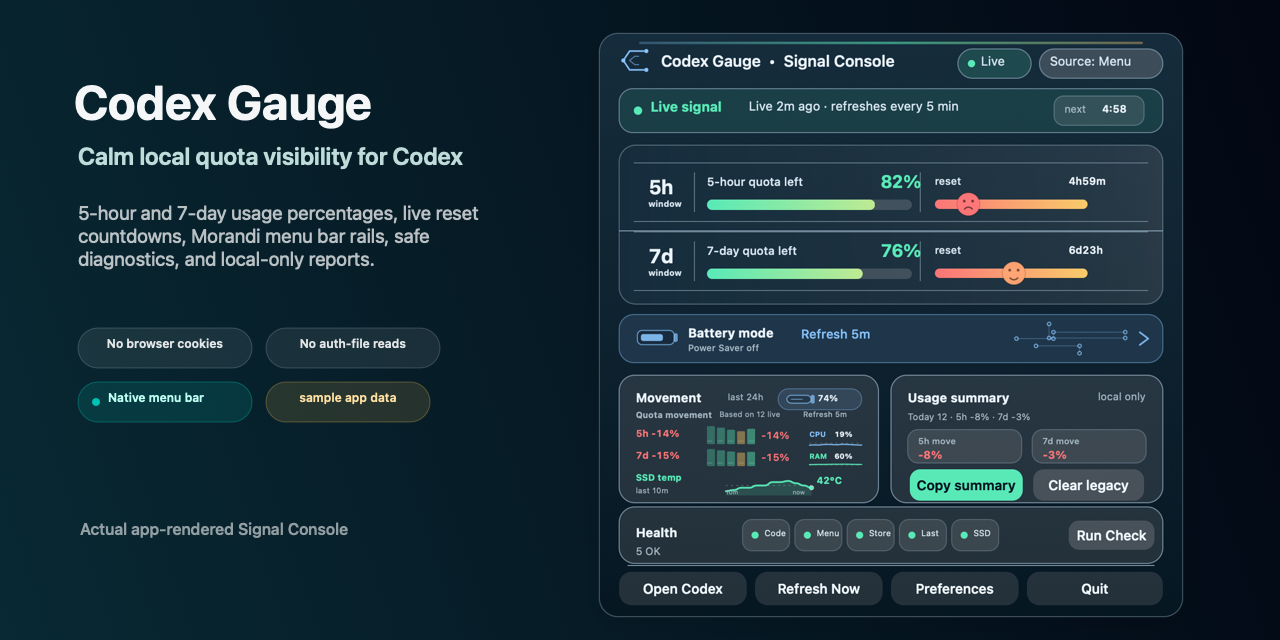
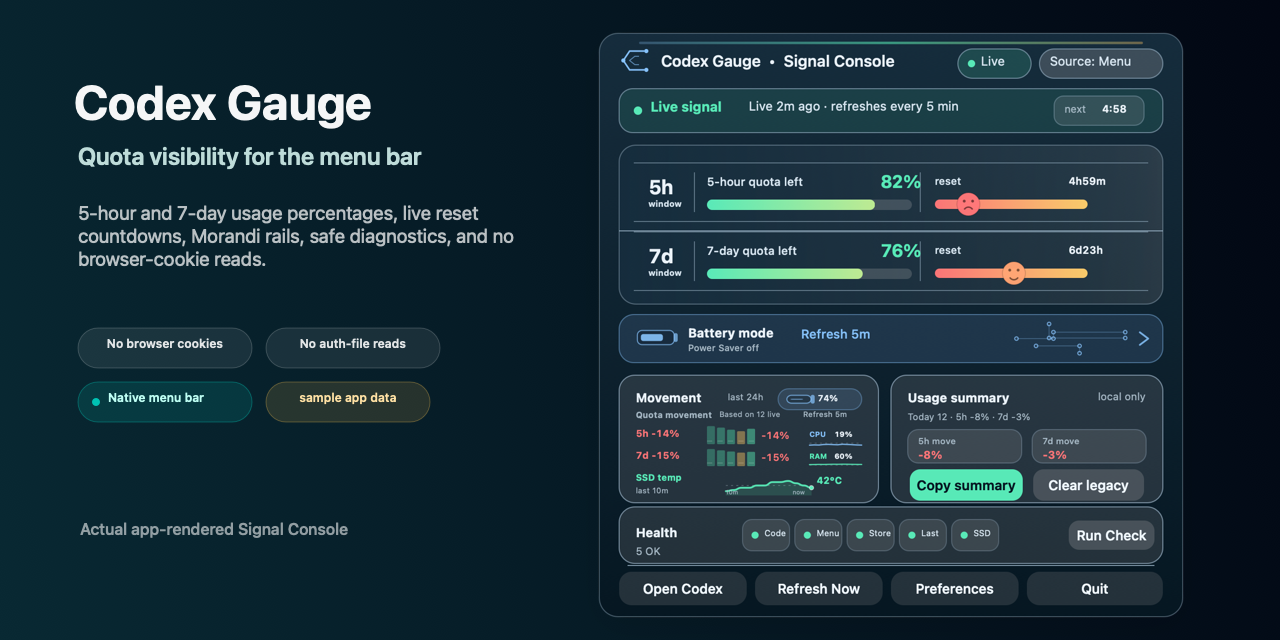
polish github presentation hero

Changed region(s): [[0.0625, 0.3438, 0.4062, 0.4375], [0.0625, 0.2188, 0.375, 0.2812]]

diff --git a/script/generate_public_assets.swift b/script/generate_public_assets.swift
@@ -5,6 +5,7 @@ import Foundation
 let canvasSize = NSSize(width: 1280, height: 640)
 let blueCeramicFixturePath = "docs/design/app-rendered-signal-console/blue-ceramic-live.png"
 let darkFixturePath = "docs/design/app-rendered-signal-console/signal-dark-live.png"
+let heroOutputPath = "docs/assets/codex-gauge-github-hero.png"
 let menuBarPath = "docs/assets/codex-gauge-menubar-live.png"
 let consoleOutputPath = "docs/assets/codex-gauge-signal-console.png"
 let socialOutputPath = "docs/assets/codex-gauge-social-preview.png"
@@ -281,6 +282,49 @@ let blueCeramicPanel = loadImage(blueCeramicFixturePath)
 let darkPanel = loadImage(darkFixturePath)
 let menuBar = loadImage(menuBarPath)
 
+try writePNG(heroOutputPath) {
+    fillCanvas(NSColor(calibratedRed: 0.90, green: 0.94, blue: 0.92, alpha: 1.0))
+    NSGradient(colors: [
+        NSColor(calibratedRed: 0.95, green: 0.97, blue: 0.94, alpha: 1.0),
+        NSColor(calibratedRed: 0.76, green: 0.84, blue: 0.84, alpha: 1.0),
+    ])?.draw(in: NSBezierPath(rect: NSRect(origin: .zero, size: canvasSize)), angle: 10)
+
+    drawRoundedRect(NSRect(x: 0, y: 0, width: 1280, height: 74), radius: 0, fill: NSColor.white.withAlphaComponent(0.46))
+    drawText("Codex Gauge", in: NSRect(x: 80, y: 108, width: 480, height: 58), size: 48, weight: .bold, color: NSColor(calibratedRed: 0.10, green: 0.15, blue: 0.15, alpha: 1.0))
+    drawText("Codex quota where you actually look: the macOS menu bar.", in: NSRect(x: 82, y: 176, width: 500, height: 72), size: 25, weight: .semibold, color: NSColor(calibratedRed: 0.22, green: 0.30, blue: 0.30, alpha: 0.96))
+    drawText("Rendered sample values. The installed app shows your live 5-hour and 7-day usage, with reset countdowns that keep moving.", in: NSRect(x: 84, y: 258, width: 500, height: 86), size: 18, weight: .regular, color: NSColor(calibratedRed: 0.33, green: 0.39, blue: 0.38, alpha: 0.94))
+
+    drawPill("No cookies", rect: NSRect(x: 84, y: 382, width: 122, height: 38), fill: NSColor.white.withAlphaComponent(0.42), stroke: NSColor(calibratedRed: 0.34, green: 0.43, blue: 0.41, alpha: 0.22), text: NSColor(calibratedRed: 0.16, green: 0.22, blue: 0.21, alpha: 1.0))
+    drawPill("No auth-file reads", rect: NSRect(x: 222, y: 382, width: 172, height: 38), fill: NSColor.white.withAlphaComponent(0.42), stroke: NSColor(calibratedRed: 0.34, green: 0.43, blue: 0.41, alpha: 0.22), text: NSColor(calibratedRed: 0.16, green: 0.22, blue: 0.21, alpha: 1.0))
+    drawPill("local diagnostics", rect: NSRect(x: 410, y: 382, width: 166, height: 38), fill: NSColor(calibratedRed: 0.42, green: 0.54, blue: 0.49, alpha: 0.14), stroke: NSColor(calibratedRed: 0.42, green: 0.54, blue: 0.49, alpha: 0.32), text: NSColor(calibratedRed: 0.14, green: 0.27, blue: 0.22, alpha: 1.0), dot: NSColor(calibratedRed: 0.42, green: 0.54, blue: 0.49, alpha: 1.0))
+
+    let shadow = NSShadow()
+    shadow.shadowColor = NSColor.black.withAlphaComponent(0.18)
+    shadow.shadowBlurRadius = 28
+    shadow.shadowOffset = NSSize(width: 0, height: -12)
+    NSGraphicsContext.saveGraphicsState()
+    shadow.set()
+    drawRoundedRect(NSRect(x: 642, y: 116, width: 548, height: 340), radius: 30, fill: NSColor.black.withAlphaComponent(0.12))
+    NSGraphicsContext.restoreGraphicsState()
+
+    drawRoundedRect(NSRect(x: 642, y: 116, width: 548, height: 340), radius: 30, fill: NSColor.white.withAlphaComponent(0.52), stroke: NSColor(calibratedRed: 0.26, green: 0.36, blue: 0.36, alpha: 0.20))
+    drawText("menu bar focus", in: NSRect(x: 686, y: 154, width: 200, height: 22), size: 14, weight: .semibold, color: NSColor(calibratedRed: 0.35, green: 0.43, blue: 0.40, alpha: 0.92))
+    drawImage(menuBar, in: NSRect(x: 686, y: 190, width: 452, height: 55))
+    drawRoundedRect(NSRect(x: 686, y: 294, width: 194, height: 96), radius: 18, fill: NSColor.white.withAlphaComponent(0.46), stroke: NSColor(calibratedRed: 0.26, green: 0.36, blue: 0.36, alpha: 0.15))
+    drawText("5h", in: NSRect(x: 710, y: 318, width: 42, height: 24), size: 22, weight: .bold, color: NSColor(calibratedRed: 0.13, green: 0.18, blue: 0.18, alpha: 1.0), mono: true)
+    drawText("usage", in: NSRect(x: 710, y: 348, width: 78, height: 18), size: 12, weight: .medium, color: NSColor(calibratedRed: 0.36, green: 0.44, blue: 0.42, alpha: 0.86))
+    drawText("90%", in: NSRect(x: 788, y: 318, width: 72, height: 28), size: 24, weight: .bold, color: NSColor(calibratedRed: 0.23, green: 0.32, blue: 0.28, alpha: 1.0), mono: true)
+    drawText("4h59m", in: NSRect(x: 788, y: 350, width: 72, height: 18), size: 12, weight: .semibold, color: NSColor(calibratedRed: 0.45, green: 0.41, blue: 0.35, alpha: 0.92), mono: true)
+
+    drawRoundedRect(NSRect(x: 910, y: 294, width: 194, height: 96), radius: 18, fill: NSColor.white.withAlphaComponent(0.46), stroke: NSColor(calibratedRed: 0.26, green: 0.36, blue: 0.36, alpha: 0.15))
+    drawText("7d", in: NSRect(x: 934, y: 318, width: 42, height: 24), size: 22, weight: .bold, color: NSColor(calibratedRed: 0.13, green: 0.18, blue: 0.18, alpha: 1.0), mono: true)
+    drawText("quota", in: NSRect(x: 934, y: 348, width: 78, height: 18), size: 12, weight: .medium, color: NSColor(calibratedRed: 0.36, green: 0.44, blue: 0.42, alpha: 0.86))
+    drawText("80%", in: NSRect(x: 1012, y: 318, width: 72, height: 28), size: 24, weight: .bold, color: NSColor(calibratedRed: 0.24, green: 0.34, blue: 0.38, alpha: 1.0), mono: true)
+    drawText("6d23h", in: NSRect(x: 1012, y: 350, width: 72, height: 18), size: 12, weight: .semibold, color: NSColor(calibratedRed: 0.45, green: 0.41, blue: 0.35, alpha: 0.92), mono: true)
+
+    drawText("The popover keeps CPU, RAM, battery, SSD, and diagnostics out of the menu bar until you ask for detail.", in: NSRect(x: 686, y: 412, width: 420, height: 48), size: 16, weight: .regular, color: NSColor(calibratedRed: 0.35, green: 0.42, blue: 0.41, alpha: 0.92))
+}
+
 try writePNG(consoleOutputPath) {
     fillCanvas(NSColor(calibratedRed: 0.91, green: 0.95, blue: 0.98, alpha: 1.0))
     NSGradient(colors: [
@@ -318,8 +362,8 @@ try writePNG(socialOutputPath) {
     ])?.draw(in: NSBezierPath(rect: NSRect(origin: .zero, size: canvasSize)), angle: 18)
 
     drawText("Codex Gauge", in: NSRect(x: 74, y: 74, width: 430, height: 58), size: 48, weight: .bold, color: NSColor.white.withAlphaComponent(0.96))
-    drawText("Calm local quota visibility for Codex", in: NSRect(x: 78, y: 142, width: 460, height: 36), size: 24, weight: .semibold, color: NSColor(calibratedRed: 0.74, green: 0.88, blue: 0.86, alpha: 0.95))
-    drawText("5-hour and 7-day usage percentages, live reset countdowns, Morandi menu bar rails, safe diagnostics, and local-only reports.", in: NSRect(x: 78, y: 202, width: 450, height: 116), size: 19, weight: .regular, color: NSColor.white.withAlphaComponent(0.72))
+    drawText("Quota visibility for the menu bar", in: NSRect(x: 78, y: 142, width: 460, height: 36), size: 24, weight: .semibold, color: NSColor(calibratedRed: 0.74, green: 0.88, blue: 0.86, alpha: 0.95))
+    drawText("5-hour and 7-day usage percentages, live reset countdowns, Morandi rails, safe diagnostics, and no browser-cookie reads.", in: NSRect(x: 78, y: 202, width: 450, height: 116), size: 19, weight: .regular, color: NSColor.white.withAlphaComponent(0.72))
 
     drawPill("No browser cookies", rect: NSRect(x: 78, y: 328, width: 174, height: 40), fill: NSColor.white.withAlphaComponent(0.08), stroke: NSColor.white.withAlphaComponent(0.17), text: NSColor.white.withAlphaComponent(0.88))
     drawPill("No auth-file reads", rect: NSRect(x: 266, y: 328, width: 174, height: 40), fill: NSColor.white.withAlphaComponent(0.08), stroke: NSColor.white.withAlphaComponent(0.17), text: NSColor.white.withAlphaComponent(0.88))

diff --git a/tests/test_public_release_hygiene.py b/tests/test_public_release_hygiene.py
@@ -149,13 +149,16 @@ class PublicReleaseHygieneTests(unittest.TestCase):
         self.assertNotIn("browser-cookie", script)
 
     def test_public_visual_assets_exist_and_are_bounded(self):
+        hero = pathlib.Path("docs/assets/codex-gauge-github-hero.png")
         live = pathlib.Path("docs/assets/codex-gauge-menubar-live.png")
         console = pathlib.Path("docs/assets/codex-gauge-signal-console.png")
         social = pathlib.Path("docs/assets/codex-gauge-social-preview.png")
 
+        self.assertTrue(hero.exists())
         self.assertTrue(live.exists())
         self.assertTrue(console.exists())
         self.assertTrue(social.exists())
+        self.assertLess(hero.stat().st_size, 3_000_000)
         self.assertLess(live.stat().st_size, 2_000_000)
         self.assertLess(console.stat().st_size, 2_000_000)
         self.assertLess(social.stat().st_size, 3_000_000)
@@ -168,6 +171,15 @@ class PublicReleaseHygieneTests(unittest.TestCase):
         )
         self.assertIn("pixelWidth: 1280", result.stdout)
         self.assertIn("pixelHeight: 640", result.stdout)
+
+        hero_result = subprocess.run(
+            ["sips", "-g", "pixelWidth", "-g", "pixelHeight", str(hero)],
+            check=True,
+            text=True,
+            stdout=subprocess.PIPE,
+        )
+        self.assertIn("pixelWidth: 1280", hero_result.stdout)
+        self.assertIn("pixelHeight: 640", hero_result.stdout)
 
         console_result = subprocess.run(
             ["sips", "-g", "pixelWidth", "-g", "pixelHeight", str(console)],
@@ -190,11 +202,14 @@ class PublicReleaseHygieneTests(unittest.TestCase):
     def test_public_asset_generator_draws_menu_bar_strip(self):
         script = pathlib.Path("script/generate_public_assets.swift").read_text()
 
+        self.assertIn("heroOutputPath", script)
+        self.assertIn("docs/assets/codex-gauge-github-hero.png", script)
         self.assertIn("writeMenuBarPNG(menuBarPath)", script)
         self.assertIn("drawMenuBarMorandiDivider", script)
         self.assertIn("drawMenuBarUsagePercentBar(value:", script)
         self.assertIn("drawMenuBarRefreshCountdown", script)
         self.assertIn("drawMenuBarCountdownPill", script)
+        self.assertIn("Codex quota where you actually look", script)
         self.assertIn("4h59m", script)
         self.assertIn("6d23h", script)
         self.assertIn("Static public screenshot with sample quota values", script)
@@ -285,6 +300,7 @@ class PublicReleaseHygieneTests(unittest.TestCase):
         script_text = script.read_text()
         self.assertIn("docs/design/app-rendered-signal-console/blue-ceramic-live.png", script_text)
         self.assertIn("docs/design/app-rendered-signal-console/signal-dark-live.png", script_text)
+        self.assertIn("docs/assets/codex-gauge-github-hero.png", script_text)
         self.assertIn("docs/assets/codex-gauge-signal-console.png", script_text)
         self.assertIn("docs/assets/codex-gauge-social-preview.png", script_text)
         self.assertIn("actual app-rendered Signal Console", script_text)

diff --git a/tests/test_public_readme_package.py b/tests/test_public_readme_package.py
@@ -9,16 +9,17 @@ class PublicReadmePackageTests(unittest.TestCase):
         self.assertTrue(readme.startswith("# Codex Gauge\n"))
         self.assertIn("https://github.com/qingzhangeddie-byte/codex-gauge/actions/workflows/test.yml/badge.svg", readme)
         self.assertIn("https://github.com/qingzhangeddie-byte/codex-gauge/releases/latest", readme)
+        self.assertIn("docs/assets/codex-gauge-github-hero.png", readme)
         self.assertIn("docs/assets/codex-gauge-menubar-live.png", readme)
-        self.assertIn("A simple, safe macOS menu bar app to check Codex usage", readme)
+        self.assertIn("A calm, safe macOS menu bar app to check Codex usage", readme)
         self.assertIn("Unofficial", readme)
         self.assertIn("docs/assets/codex-gauge-signal-console.png", readme)
         self.assertIn("actual app-rendered Signal Console", readme)
-        self.assertIn("Static sample screenshot.", readme)
+        self.assertIn("Rendered public image with static sample values.", readme)
         self.assertIn("static sample quota values for the README, not live account data", readme)
         self.assertLess(
-            readme.index("docs/assets/codex-gauge-menubar-live.png"),
-            readme.index("A simple, safe macOS menu bar app"),
+            readme.index("docs/assets/codex-gauge-github-hero.png"),
+            readme.index("A calm, safe macOS menu bar app"),
         )
 
     def test_readme_uses_real_public_repo_url_badges_and_faq(self):
@@ -56,6 +57,7 @@ class PublicReadmePackageTests(unittest.TestCase):
             "bash install.sh",
             "What makes it different",
             "Built for one job: Codex quota at a glance.",
+            "Calm Morandi rails instead of a noisy dashboard",
         ]:
             self.assertIn(phrase, readme)
 
@@ -182,7 +184,7 @@ class PublicReadmePackageTests(unittest.TestCase):
         readme = pathlib.Path("README.zh-CN.md").read_text(encoding="utf-8")
 
         self.assertTrue(readme.startswith("# Codex Gauge\n"))
-        self.assertIn("简单、安全的 Codex 菜单栏额度仪表", readme)
+        self.assertIn("安静、安全的 Codex 菜单栏额度仪表", readme)
         self.assertIn("1 秒 SSD 温度采样", readme)
         self.assertIn("10 分钟温度曲线", readme)
         self.assertIn("只保存在内存中", readme)

diff --git a/README.md b/README.md
@@ -5,15 +5,15 @@
 [![License](https://img.shields.io/github/license/qingzhangeddie-byte/codex-gauge)](LICENSE)
 ![macOS 13+](https://img.shields.io/badge/macOS-13%2B-0f766e)
 
-![Codex Gauge static sample menu bar with usage percentage bars and reset countdowns](docs/assets/codex-gauge-menubar-live.png)
+![Codex Gauge rendered GitHub hero with Morandi menu bar quota bars](docs/assets/codex-gauge-github-hero.png)
 
-_Static sample screenshot. The installed app renders your live Codex usage percentages and reset countdowns._
+_Rendered public image with static sample values. The installed app renders your live Codex usage percentages and reset countdowns._
 
-**A simple, safe macOS menu bar app to check Codex usage, track the Codex 5-hour limit, and watch your Codex 7-day quota at a glance.**
+**A calm, safe macOS menu bar app to check Codex usage: 5-hour and 7-day quota, live reset countdowns, and no browser-cookie reads.**
 
 Stop guessing how much Codex you have left.
 
-Codex Gauge puts your 5-hour and 7-day usage percentages directly in the macOS menu bar, with reset countdowns, live-source labels, and a compact Signal Console when you need more detail.
+Codex Gauge puts your 5-hour and 7-day usage percentages directly in the macOS menu bar, with reset countdowns that keep moving and a compact Signal Console when you need more detail.
 
 Codex Gauge 会把 Codex 5 小时和 7 天使用百分比、重置倒计时和数据来源直接放进 macOS 菜单栏；需要更多细节时，点开 Signal Console 就能看到完整状态。
 
@@ -35,6 +35,7 @@ What makes it different:
 
 - Built for one job: Codex quota at a glance.
 - Native menu bar first, detailed Signal Console only when you click.
+- Calm Morandi rails instead of a noisy dashboard wedged into the status bar.
 - Clear labels for Live, Last live, Snapshot, and Codex closed states.
 - Local-only diagnostics and reports, designed to avoid private prompt/session content.
 
@@ -49,6 +50,10 @@ It shows remaining Codex 5-hour usage and Codex 7-day quota without opening a da
 Search phrases this project is designed to answer naturally: **check Codex usage**, **OpenAI Codex usage monitor**, **Codex quota tracker**, **Codex rate limit tracker**, **Codex 5-hour limit**, **Codex 7-day quota**, **macOS Codex menu bar app**, and **Codex usage menubar**.
 
 这个项目自然覆盖的中文搜索词包括：**查看 Codex 使用量**、**Codex 额度监控**、**Codex 菜单栏工具**、**Codex 5 小时限制**、**Codex 7 天额度**、**OpenAI Codex 使用量监控**。
+
+![Codex Gauge static sample menu bar with usage percentage bars and reset countdowns](docs/assets/codex-gauge-menubar-live.png)
+
+_Menu bar strip render. Static sample values; live values update in the installed app._
 
 ## What You Get
 

diff --git a/docs/PUBLISHING.md b/docs/PUBLISHING.md
@@ -6,7 +6,7 @@ This project publishes one supported surface: the native Codex Gauge menu bar ap
 
 - Review the diff before each public release.
 - Do not publish logs, screenshots with account details, `.venv`, `.env`, `.app` bundles, or legacy files from `~/Library/Application Support/CodexGauge`. In release review, search for the exact rule: do not publish logs.
-- Regenerate public screenshots from the checked-in scripts. README screenshots must use static sample values, not personal live account timing.
+- Regenerate public screenshots from the checked-in scripts. README and GitHub hero images must use static sample values, not personal live account timing.
 - Do not include personal paths from `Info.plist`; the installed app should resolve its helper from `Contents/Resources`.
 - Keep private planning notes out of the public repo.
 - Keep the public repo identity independent from older fork wording, while preserving required license history.
@@ -84,8 +84,8 @@ A Homebrew cask is a good public install path after signing and notarization. Ke
 - Push with `git push -u origin main --tags` only after the GitHub repo is a fresh non-fork repo.
 - Verify `git clone https://github.com/qingzhangeddie-byte/codex-gauge.git` works before announcing.
 - Create the GitHub Release for `v0.9.1`; the README release badge should not point at an older identity.
-- Set GitHub About description: `Unofficial macOS menu bar app for OpenAI Codex usage: Morandi 5h/7d quota bars, live reset countdowns, and local-only diagnostics`.
+- Set GitHub About description: `Calm macOS menu bar gauge for OpenAI Codex usage: Morandi 5h/7d bars, live reset countdowns, local-only diagnostics`.
 - Set GitHub topics: `macos`, `menubar`, `menu-bar-app`, `codex`, `openai`, `swift`, `rate-limit`, `usage-monitor`, `developer-tools`.
-- Upload the refreshed `docs/assets/codex-gauge-social-preview.png` as the repository social preview after confirming it uses sample values only.
+- Upload the refreshed `docs/assets/codex-gauge-social-preview.png` as the repository social preview after confirming it uses sample values only. Use `docs/assets/codex-gauge-github-hero.png` at the top of README and release notes.
 - Enable private vulnerability reporting in GitHub Settings > Security.
 - Delete or archive the old fork only after the fresh repo and release are verified.

diff --git a/README.zh-CN.md b/README.zh-CN.md
@@ -1,12 +1,12 @@
 # Codex Gauge
 
-![Codex Gauge 静态示例菜单栏：使用百分比条和重置倒计时](docs/assets/codex-gauge-menubar-live.png)
+![Codex Gauge GitHub 渲染主图：Morandi 菜单栏额度条](docs/assets/codex-gauge-github-hero.png)
 
-_静态示例截图；安装后的 App 会显示你的实时 Codex 使用百分比和重置倒计时。_
+_公开渲染图使用静态示例数值；安装后的 App 会显示你的实时 Codex 使用百分比和重置倒计时。_
 
 [English](README.md) | 中文说明
 
-Codex Gauge 是一个**简单、安全的 Codex 菜单栏额度仪表**，用于在 macOS 菜单栏直接查看 Codex 5 小时和 7 天额度。
+Codex Gauge 是一个**安静、安全的 Codex 菜单栏额度仪表**，用于在 macOS 菜单栏直接查看 Codex 5 小时额度、7 天额度和实时重置倒计时。
 
 它是非官方本地工具，重点不是做大而全的 dashboard，而是把最常看的信息放到菜单栏：现在还剩多少 Codex。它也可以理解为一个本地的 Codex rate limit tracker，关注 5 小时窗口、7 天额度和重置时间。
 
@@ -28,8 +28,13 @@ bash install.sh
 
 - 只做一件事：让 Codex 额度一眼可见。
 - 菜单栏优先，只有点开时才显示更完整的 Signal Console。
+- 使用克制的 Morandi 额度条，不把状态栏做成吵闹的小 dashboard。
 - 清楚标注 Live、Last live、Snapshot 和 Codex closed 状态。
 - 诊断和报告都只在本地生成，避免复制私人的 prompt、session 或日志内容。
+
+![Codex Gauge 静态示例菜单栏：使用百分比条和重置倒计时](docs/assets/codex-gauge-menubar-live.png)
+
+_菜单栏条形渲染图。这里是静态示例数值；安装后的 App 会实时更新。_
 
 ## 核心特点
 

diff --git a/CHANGELOG.md b/CHANGELOG.md
@@ -3,6 +3,7 @@
 ## Unreleased
 
 - Refreshed public GitHub screenshots and README copy so generated images are clearly labeled as static sample values, not live account timing.
+- Added a dedicated rendered GitHub hero image for the menu bar-focused product description.
 - Removed stale unreferenced preview SVG mockups from the public docs assets.
 
 ## v0.9.1 - 2026-06-27
